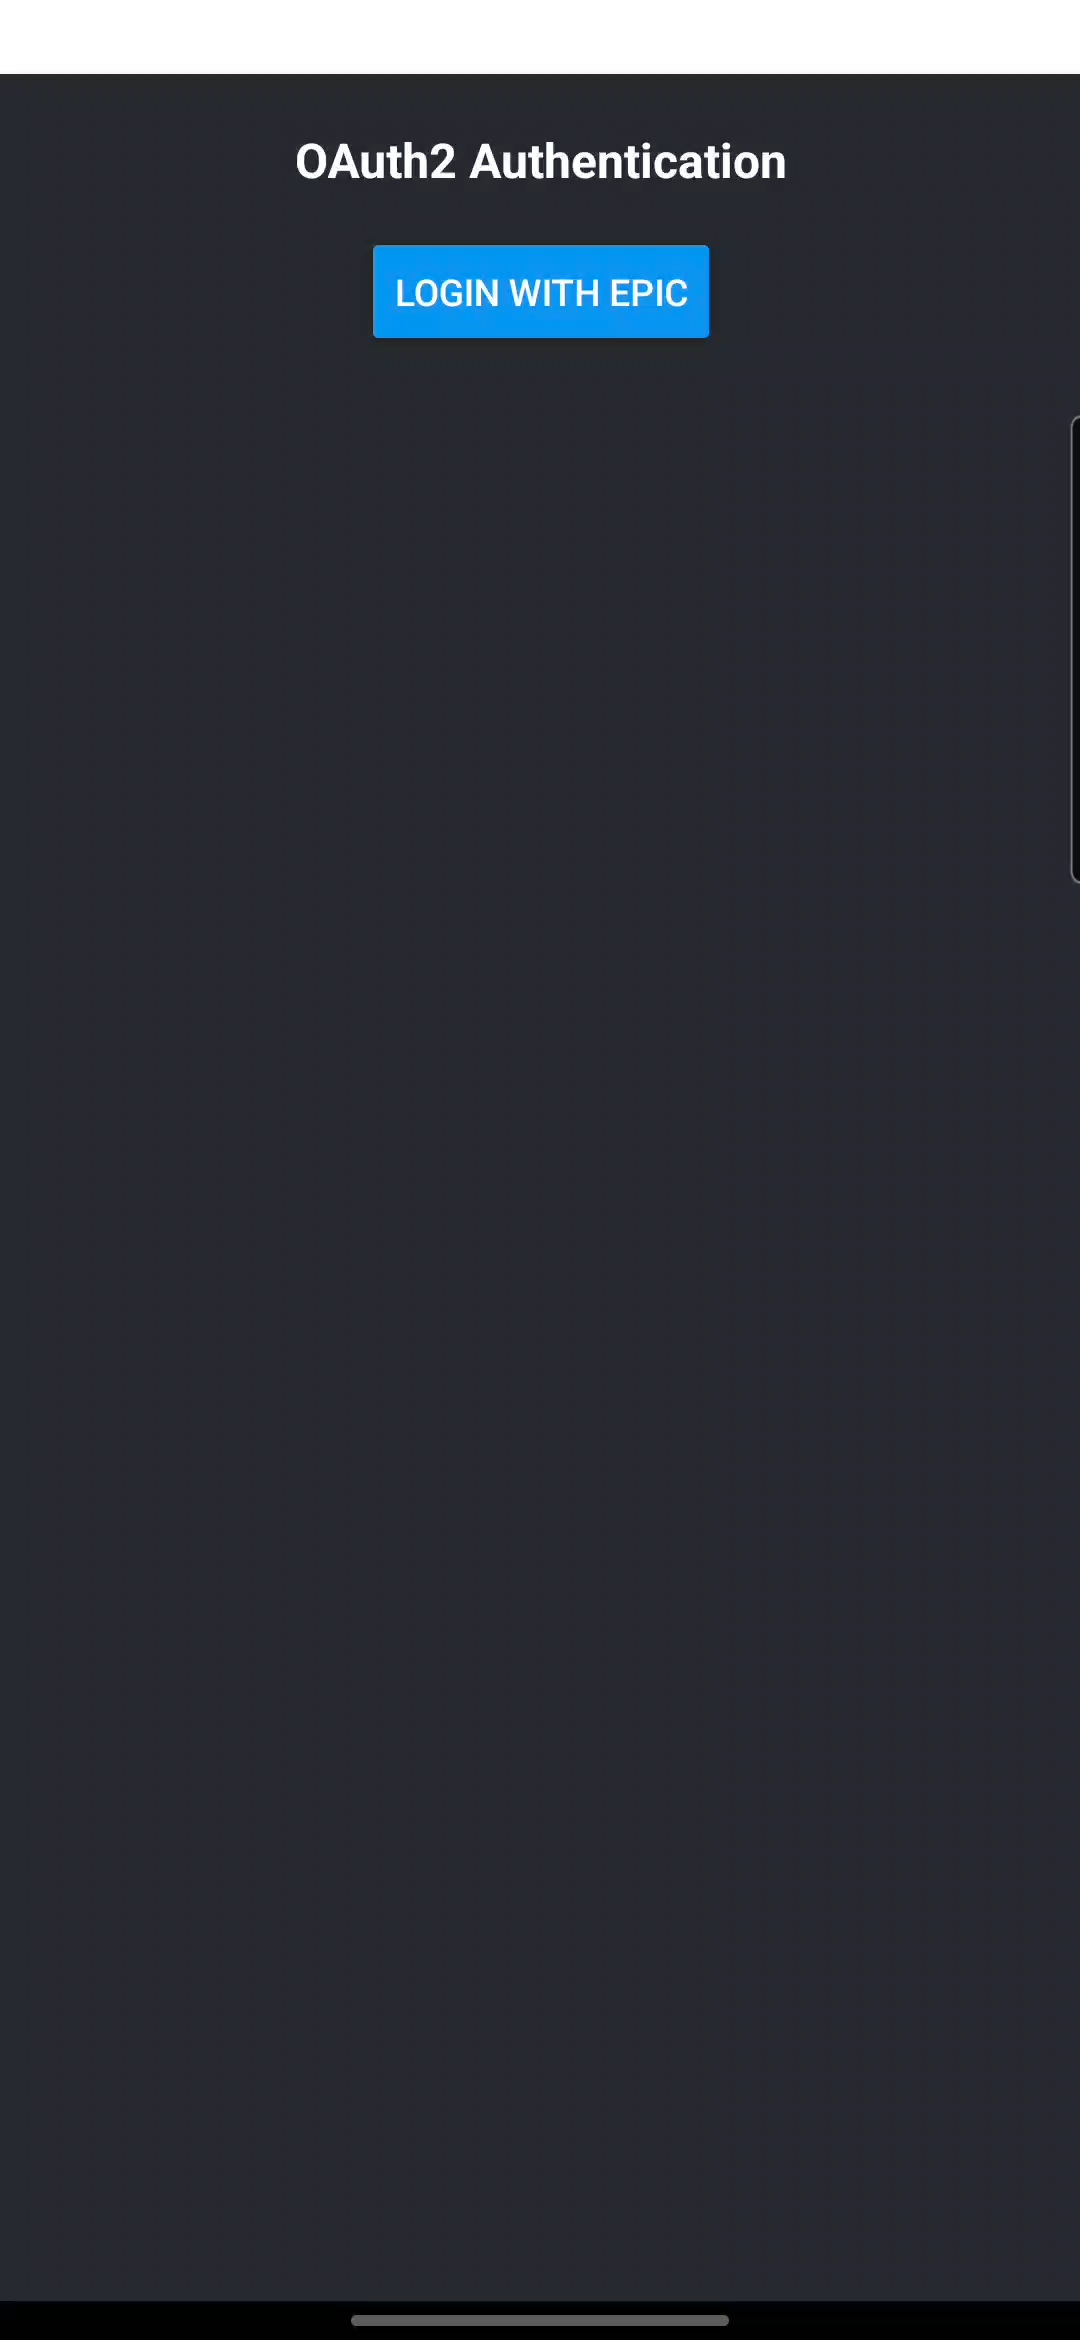
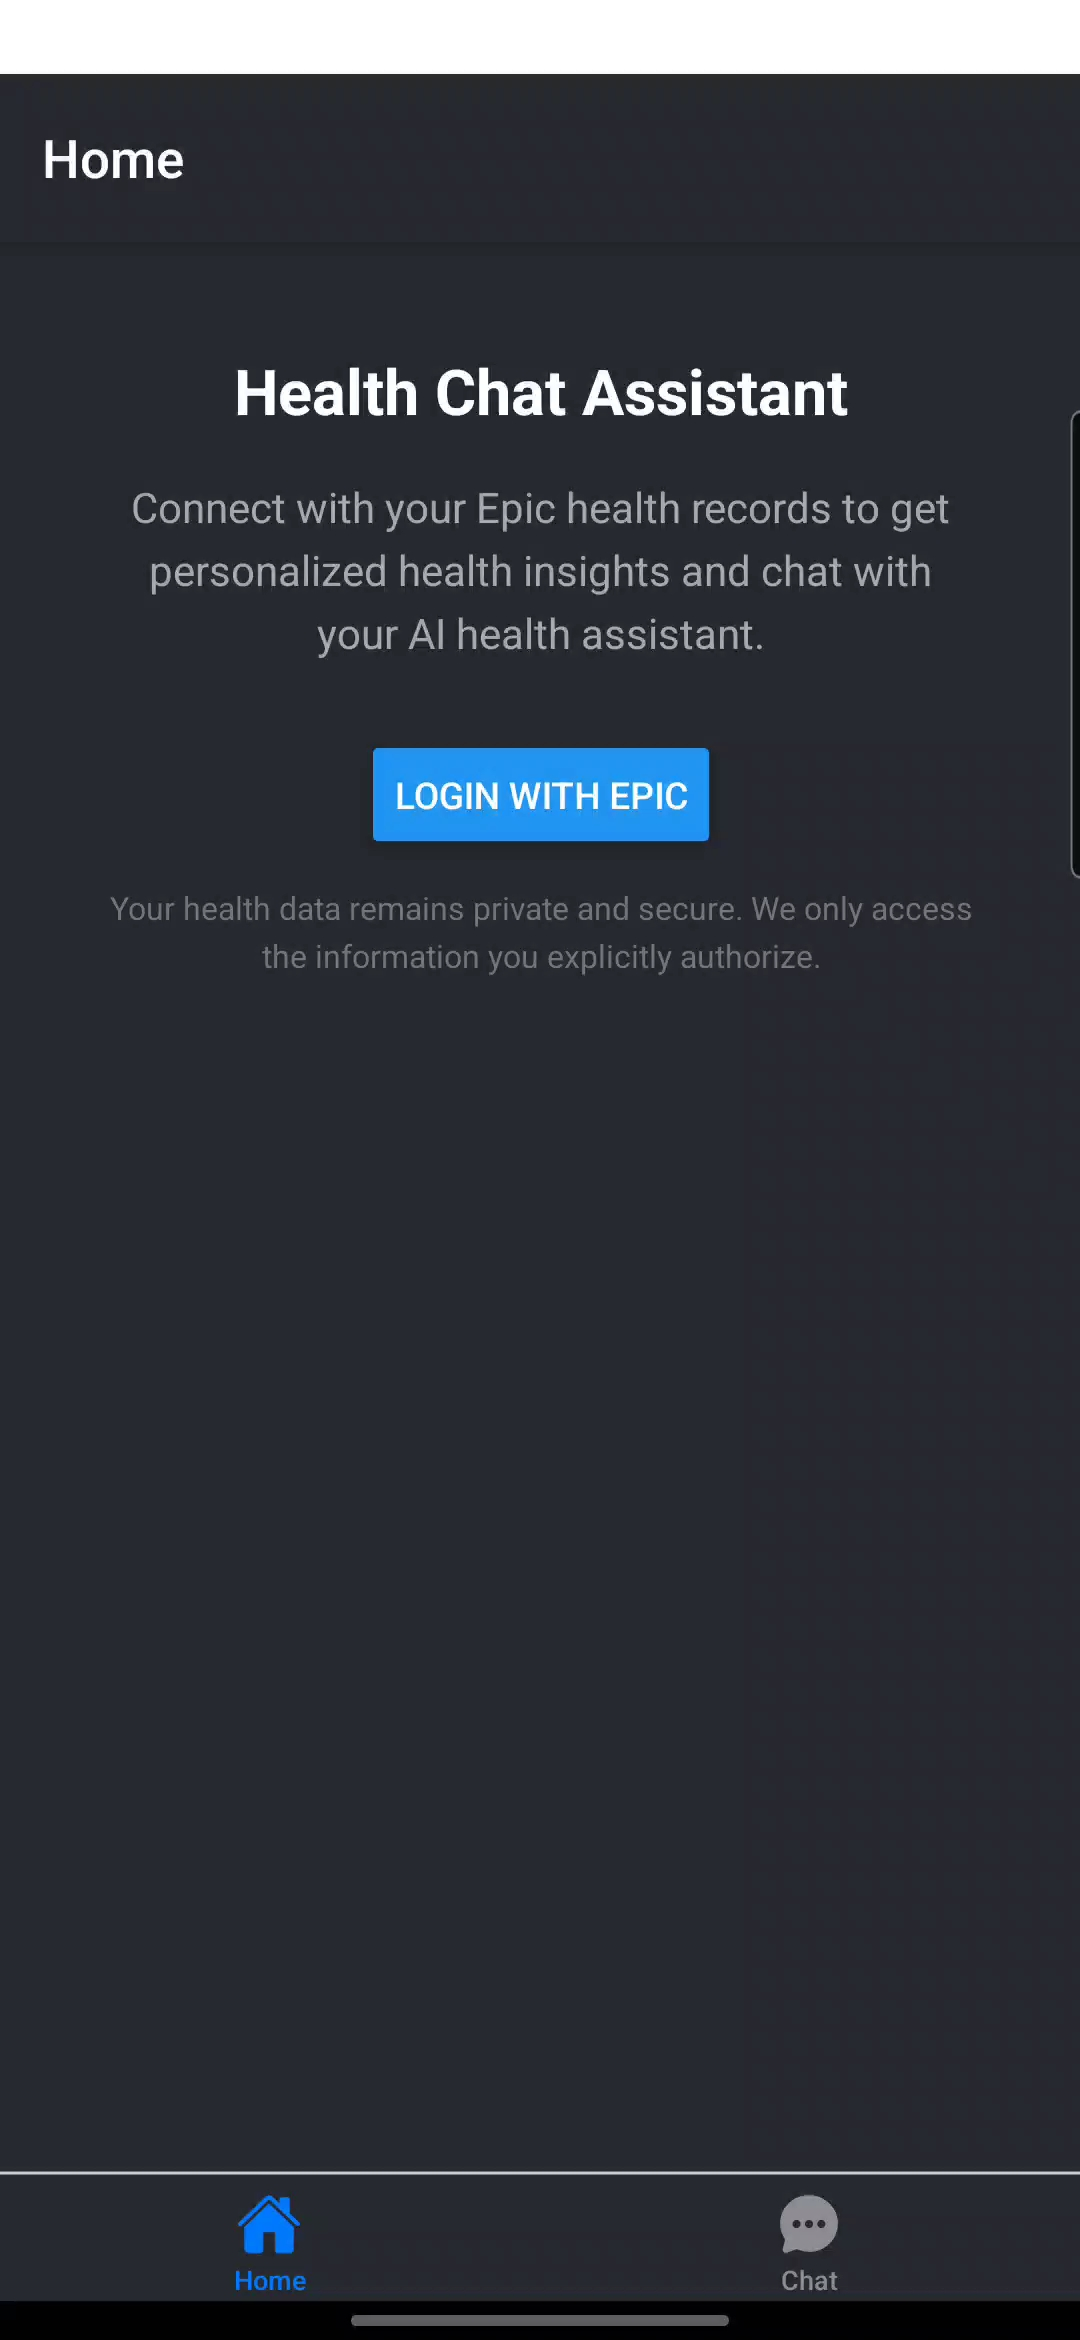
Layout improvements and docs

diff --git a/app/components/Chat.tsx b/app/components/Chat.tsx
@@ -1,10 +1,11 @@
 import OpenAI from "openai-react-native";
-import React, { useEffect, useState } from "react";
+import React, { useContext, useEffect, useState } from "react";
 import {
   KeyboardAvoidingView,
   Platform,
   SafeAreaView,
   StyleSheet,
+  Text,
   View,
 } from "react-native";
 
@@ -14,6 +15,7 @@ import {
   WELCOME_MESSAGE,
 } from "../constants/chatConstants";
 import { usePatient } from "../context/PatientContext";
+import { SmarterFhirContext } from "../context/SmarterFhirContext";
 import {
   generateChatResponse,
   initializeOpenAI,
@@ -28,20 +30,24 @@ export const Chat = () => {
   const [isLoading, setIsLoading] = useState(false);
   const [isRefreshing, setIsRefreshing] = useState(false);
   const patientData = usePatient();
+  const { client: fhirClient } = useContext(SmarterFhirContext);
 
   useEffect(() => {
-    const setupChat = async () => {
-      try {
-        const newClient = await initializeOpenAI();
-        setClient(newClient);
-        await initializeWithWelcomeMessage(newClient);
-      } catch (error) {
-        console.error("Error setting up chat:", error);
-      }
-    };
+    // Only initialize chat when user is logged in
+    if (fhirClient) {
+      const setupChat = async () => {
+        try {
+          const newClient = await initializeOpenAI();
+          setClient(newClient);
+          await initializeWithWelcomeMessage(newClient);
+        } catch (error) {
+          console.error("Error setting up chat:", error);
+        }
+      };
 
-    setupChat();
-  }, []);
+      setupChat();
+    }
+  }, [fhirClient]);
 
   const initializeWithWelcomeMessage = async (client: OpenAI) => {
     if (!client) return;
@@ -167,6 +173,28 @@ export const Chat = () => {
     }
   };
 
+  // If user is not logged in with Epic, show the Epic integration screen
+  if (!fhirClient) {
+    return (
+      <SafeAreaView style={styles.logoutContainer}>
+        <View style={styles.content}>
+          <Text style={styles.title}>Health Chat Assistant</Text>
+
+          <Text style={styles.description}>
+            Connect with your Epic health records to get personalized health
+            insights and chat with your AI health assistant.
+          </Text>
+
+          <Text style={styles.privacyText}>
+            Your health data remains private and secure. We only access the
+            information you explicitly authorize.
+          </Text>
+        </View>
+      </SafeAreaView>
+    );
+  }
+
+  // User is logged in, show the chat interface
   return (
     <SafeAreaView style={styles.container}>
       <KeyboardAvoidingView
@@ -192,17 +220,38 @@ const styles = StyleSheet.create({
     flex: 1,
     backgroundColor: "#25292e",
   },
+  logoutContainer: {
+    flex: 1,
+    backgroundColor: "#25292e",
+    padding: 20,
+  },
   contentContainer: {
     flex: 1,
     justifyContent: "space-between",
   },
-  loadingOverlay: {
-    position: "absolute",
-    top: 10,
-    right: 10,
-    zIndex: 5,
-    backgroundColor: "rgba(0,0,0,0.3)",
-    padding: 10,
-    borderRadius: 20,
+  content: {
+    width: "100%",
+    maxWidth: 400,
+    alignItems: "center",
+  },
+  title: {
+    fontSize: 24,
+    fontWeight: "bold",
+    color: "#fff",
+    marginBottom: 16,
+  },
+  description: {
+    fontSize: 16,
+    color: "#aaa",
+    textAlign: "center",
+    marginBottom: 32,
+    lineHeight: 24,
+  },
+  privacyText: {
+    fontSize: 12,
+    color: "#777",
+    textAlign: "center",
+    lineHeight: 18,
+    marginTop: 16,
   },
 });

diff --git a/app/components/EpicIntegration.tsx b/app/components/EpicIntegration.tsx
@@ -1,12 +1,12 @@
 import { BaseClient, EMR, LAUNCH } from "@TopologyHealth/smarterfhir";
-import { Button, Linking, StyleSheet, Text, View } from "react-native";
-import updateLocationPolyfill from "../locationPolyfill";
-import ClientFactoryNative from "../clientHandler";
-import SmartLaunchHandlerNative from "../smartHandler";
 import * as WebBrowser from "expo-web-browser";
-import { useContext, useEffect } from "react";
-import { useRef } from "react";
+import { useContext, useEffect, useRef } from "react";
+import { Button, Linking, StyleSheet, Text, View } from "react-native";
+
+import ClientFactoryNative from "../clientHandler";
 import { SmarterFhirContext } from "../context/SmarterFhirContext";
+import updateLocationPolyfill from "../locationPolyfill";
+import SmartLaunchHandlerNative from "../smartHandler";
 WebBrowser.maybeCompleteAuthSession();
 
 updateLocationPolyfill(process.env.EXPO_PUBLIC_REDIRECT_URL!);
@@ -71,8 +71,21 @@ export default function EpicIntegration() {
 
   return (
     <View style={styles.container}>
-      <Text style={styles.title}>OAuth2 Authentication</Text>
-      <Button title="Login with Epic" onPress={handleLogin} />
+      <View style={styles.content}>
+        <Text style={styles.title}>Health Chat Assistant</Text>
+
+        <Text style={styles.description}>
+          Connect with your Epic health records to get personalized health
+          insights and chat with your AI health assistant.
+        </Text>
+
+        <Button title="Login with Epic" onPress={handleLogin} />
+
+        <Text style={styles.privacyText}>
+          Your health data remains private and secure. We only access the
+          information you explicitly authorize.
+        </Text>
+      </View>
     </View>
   );
 }
@@ -80,14 +93,39 @@ export default function EpicIntegration() {
 const styles = StyleSheet.create({
   container: {
     flex: 1,
+    backgroundColor: "#25292e",
     justifyContent: "center",
     alignItems: "center",
+    padding: 20,
+  },
+  content: {
+    width: "100%",
+    maxWidth: 400,
+    alignItems: "center",
+  },
+  logo: {
+    width: 100,
+    height: 100,
+    marginBottom: 20,
   },
   title: {
-    fontSize: 18,
+    fontSize: 24,
     fontWeight: "bold",
-    marginBottom: 20,
-    color: "white",
+    color: "#fff",
+    marginBottom: 16,
+  },
+  description: {
+    fontSize: 16,
+    color: "#aaa",
     textAlign: "center",
+    marginBottom: 32,
+    lineHeight: 24,
+  },
+  privacyText: {
+    fontSize: 12,
+    color: "#777",
+    textAlign: "center",
+    lineHeight: 18,
+    marginTop: 16,
   },
 });

diff --git a/README.md b/README.md
@@ -13,6 +13,7 @@ This application demonstrates how to build a patient-facing healthcare app that 
   - Upcoming appointments
   - Health metrics
   - Medications
+- AI-powered chat interface using OpenAI
 
 ### Application Content
 
@@ -26,6 +27,10 @@ The following screenshots showcase the key features of the Topology Mobile appli
 | :------------------------------------------: | :--------------------------------------------------------: | :----------------------------------------------------------------------: |
 |              Patient Dashboard               |                Dashboard (Alternative View)                |                       Health Metrics & Medications                       |
 
+| ![AI Assistant first message](images/chat1.jpg) | ![AI Assistant answering about epic data](images/chat2.jpg) | ![AI Assistant extrapolation](images/chat3.jpg) |
+| :---------------------------------------------: | :---------------------------------------------------------: | :---------------------------------------------: |
+|                AI Assistant Chat                |           AI Assistant answering about epic data            |           AI Assistant extrapolation            |
+
 ### About Topology Health
 
 Topology Health has a set of tools for faster and easier EMR/EHR integration. https://github.com/TopologyHealth
@@ -37,6 +42,7 @@ Topology Health has a set of tools for faster and easier EMR/EHR integration. ht
 - [Expo CLI](https://docs.expo.dev/)
 - npm or yarn
 - iOS Simulator (for iOS) or Android Emulator (for Android)
+- OpenAI API access via proxy (This example uses [Backmesh](https://backmesh.com))
 
 ### Install
 
@@ -61,6 +67,23 @@ In the output, you'll find options to open the app in a
 
 You can start developing by editing the files inside the **app** directory. This project uses [file-based routing](https://docs.expo.dev/router/introduction).
 
+3. Copy the `.env.local.example` file to `.env`
+
+   ```bash
+   cp .env.local.example .env
+   ```
+
+4. Fill in the values in the `.env` file:
+
+   ```bash
+   EXPO_PUBLIC_EMR_CLIENT_ID=your_web_client_id
+   EXPO_PUBLIC_REDIRECT_URL=your_app_redirect_url
+   EXPO_PUBLIC_BACKMESH_URL=your_openai_proxy_url
+   EXPO_PUBLIC_FIREBASE_API_KEY=your_firebase_api_key
+   EXPO_PUBLIC_FIREBASE_AUTH_DOMAIN=your_firebase_auth_domain
+   EXPO_PUBLIC_FIREBASE_PROJECT_ID=your_firebase_project_id
+   ```
+
 ### Development Setup
 
 The project uses ESLint, Prettier, and Husky for code quality and consistency. Install Husky pre-commit hooks:
@@ -80,18 +103,20 @@ npm run prepare
       - Run `npm start`, run the app on your device with Expo Go, and check the "Redirect URL: ..." log message in the terminal to get the IP address to use.
    3. After creating the two new client applications, copy the client ID from both.
 
-3. Copy the `.env.local.example` file to `.env`
+3. Configure environment variables.
 
-   ```bash
-   cp .env.local.example .env
-   ```
+### OpenAI Configuration
 
-4. Fill in the values in the `.env` file:
+The application uses `openai-react-native` for chat functionality. As recommended by [openai-react-native](https://github.com/backmesh/openai-react-native), we use a proxy server to secure the OpenAI API key. Here's how it's configured:
 
-   ```bash
-   EXPO_PUBLIC_MEDPLUM_WEB_CLIENT_ID=your_web_client_id
-   EXPO_PUBLIC_MEDPLUM_NATIVE_CLIENT_ID=your_native_client_id
-   ```
+```typescript
+const client = new OpenAI({
+  baseURL: process.env.EXPO_PUBLIC_BACKMESH_URL!,
+  apiKey: await creds.user.getIdToken(), // Using Firebase auth token
+});
+```
+
+⚠ **Security Note**: Never expose your OpenAI API key directly in the mobile app. Always use a proxy server.
 
 ## Learn more
 
